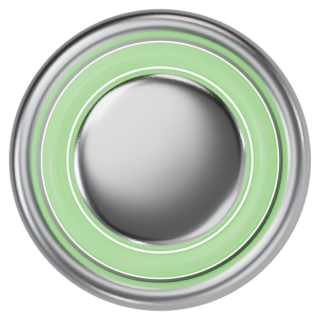
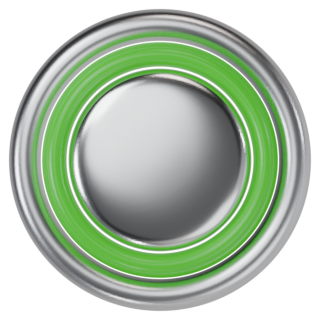
POWER qui clignote à l'allumage, halo vert réaliste, LED violettes, poisson LCD
- anneau POWER re-rendu en vert franc, lueur limitée à l'anneau + reflet sur le chrome
- clignotement de POWER avant l'allumage de l'écran
- LED et point du potard au violet du logo
- logo de l'écran en deux tons LCD (encre noire / vert clair)

Changed region(s): [[0.0938, 0.0938, 0.9062, 0.9062]]

diff --git a/styles.css b/styles.css
@@ -440,3 +440,38 @@ a:active > .rbtn, button.rbtn:active, [aria-current="page"] > .rbtn {
   .sticker { width: 76px; right: -8px; top: -6px; }
   .engraved-title { font-size: .62rem; letter-spacing: .26em; }
 }
+
+/* =========================================================
+   POWER : halo réaliste + clignotement · LED violettes · poisson LCD
+   ========================================================= */
+.power-ring[aria-pressed="true"] { filter: drop-shadow(0 6px 8px rgba(0,0,0,.5)); }
+.power-ring::before { /* lumière émise par l'anneau, limitée à l'anneau */
+  content: ""; position: absolute; inset: -16%; border-radius: 50%; pointer-events: none; opacity: 0;
+  background: radial-gradient(circle closest-side, transparent 47%, rgba(140,255,90,.55) 54%, rgba(90,240,50,.38) 60%, rgba(60,220,30,.14) 72%, transparent 84%);
+  filter: blur(3px); mix-blend-mode: screen; transition: opacity .25s;
+}
+.power-wrap { position: relative; }
+.power-wrap::before { /* reflet vert sur le chrome autour */
+  content: ""; position: absolute; left: 50%; top: calc(var(--jog) * .29); width: calc(var(--jog) * 1.05); height: calc(var(--jog) * .82);
+  transform: translate(-50%, -50%); border-radius: 50%; pointer-events: none; opacity: 0;
+  background: radial-gradient(closest-side, rgba(110,255,70,.22), rgba(110,255,70,.07) 55%, transparent);
+  mix-blend-mode: soft-light; transition: opacity .25s;
+}
+.power-ring[aria-pressed="true"]::before, .power-wrap:has(.power-ring[aria-pressed="true"])::before { opacity: 1; }
+.power-ring.blink { animation: pwr-blink .9s steps(1) 1; }
+.power-ring.blink::before { animation: pwr-blink-glow .9s steps(1) 1; }
+@keyframes pwr-blink {
+  0%, 22%, 44%, 66% { background-image: url("assets/hw/power-on.png"); }
+  11%, 33%, 55%, 77%, 100% { background-image: url("assets/hw/power-off.png"); }
+}
+@keyframes pwr-blink-glow { 0%, 22%, 44%, 66% { opacity: 1; } 11%, 33%, 55%, 77%, 100% { opacity: 0; } }
+
+.led.blue.on, [aria-current="page"] .led {
+  background: radial-gradient(circle at 35% 30%, #faf0ff, #c47bff 40%, #7a22e0 75%);
+  box-shadow: 0 0 6px #a64dff, 0 0 14px rgba(166,77,255,.75), inset 0 1px 1px rgba(255,255,255,.7),
+    0 0 0 2px #1c2025, 0 0 0 3px #6a727c, 0 -1px 0 3.5px rgba(0,0,0,.35), 0 1px 0 3.5px rgba(255,255,255,.85);
+}
+.led { background: radial-gradient(circle at 35% 30%, #7a6c8f, #2a2238 70%); }
+.knob::after { background: radial-gradient(circle at 35% 30%, #faf0ff, #c47bff 40%, #7a22e0); box-shadow: 0 0 8px #a64dff; }
+
+.ink-logo { mix-blend-mode: normal; filter: none; }

diff --git a/index.html b/index.html
@@ -9,8 +9,9 @@
   <link rel="preconnect" href="https://fonts.googleapis.com" />
   <link rel="preconnect" href="https://fonts.gstatic.com" crossorigin />
   <link href="https://fonts.googleapis.com/css2?family=Orbitron:wght@500;700&family=VT323&display=swap" rel="stylesheet" />
-  <link rel="stylesheet" href="styles.css?v=8" />
+  <link rel="stylesheet" href="styles.css?v=9" />
   <link rel="preload" as="image" href="assets/hw/power-on.png" />
+  <link rel="preload" as="image" href="assets/hw/power-off.png" />
   <script>document.documentElement.classList.add("js");</script>
 </head>
 <body>
@@ -369,6 +370,6 @@
     </div>
   </div>
 </div>
-<script src="main.js?v=8"></script>
+<script src="main.js?v=9"></script>
 </body>
 </html>

diff --git a/main.js b/main.js
@@ -174,7 +174,8 @@ power.addEventListener("click", togglePower);
 document.getElementById("power-x").addEventListener("click", togglePower);
 // À l'ouverture : écran éteint, puis on « appuie » sur POWER et l'appareil démarre
 glass.classList.add("off");
-setTimeout(togglePower, 650);
+setTimeout(() => power.classList.add("blink"), 350);
+setTimeout(() => { power.classList.remove("blink"); togglePower(); }, 1300);
 
 // ---------------------------------------------------------
 // Player state (LCD spectrum + stem mixer)

diff --git a/design/blender/parts.py b/design/blender/parts.py
@@ -248,7 +248,7 @@ def part_knob():
 
 def part_power(on):
     clear(); key_light(); camera_top(2.12, 320, 320)
-    green = mat("green_on", (0.25, 1.0, 0.2), 0.0, 0.25, emit=(0.12, 1.0, 0.05), emit_strength=1.6) if on \
+    green = mat("green_on", (0.02, 0.35, 0.01), 0.0, 0.3, emit=(0.04, 1.0, 0.0), emit_strength=0.55) if on \
         else mat("green_off", (0.32, 0.4, 0.34), 0.0, 0.35, transmission=0.4)
     lathe("cap", [(0, 0.3), (0.3, 0.295), (0.48, 0.278), (0.57, 0.25), (0.6, 0.2), (0.605, 0.12)], CHROME())
     lathe("ring", [(0.62, 0.1), (0.64, 0.2), (0.7, 0.245), (0.76, 0.2), (0.78, 0.1)], green)
